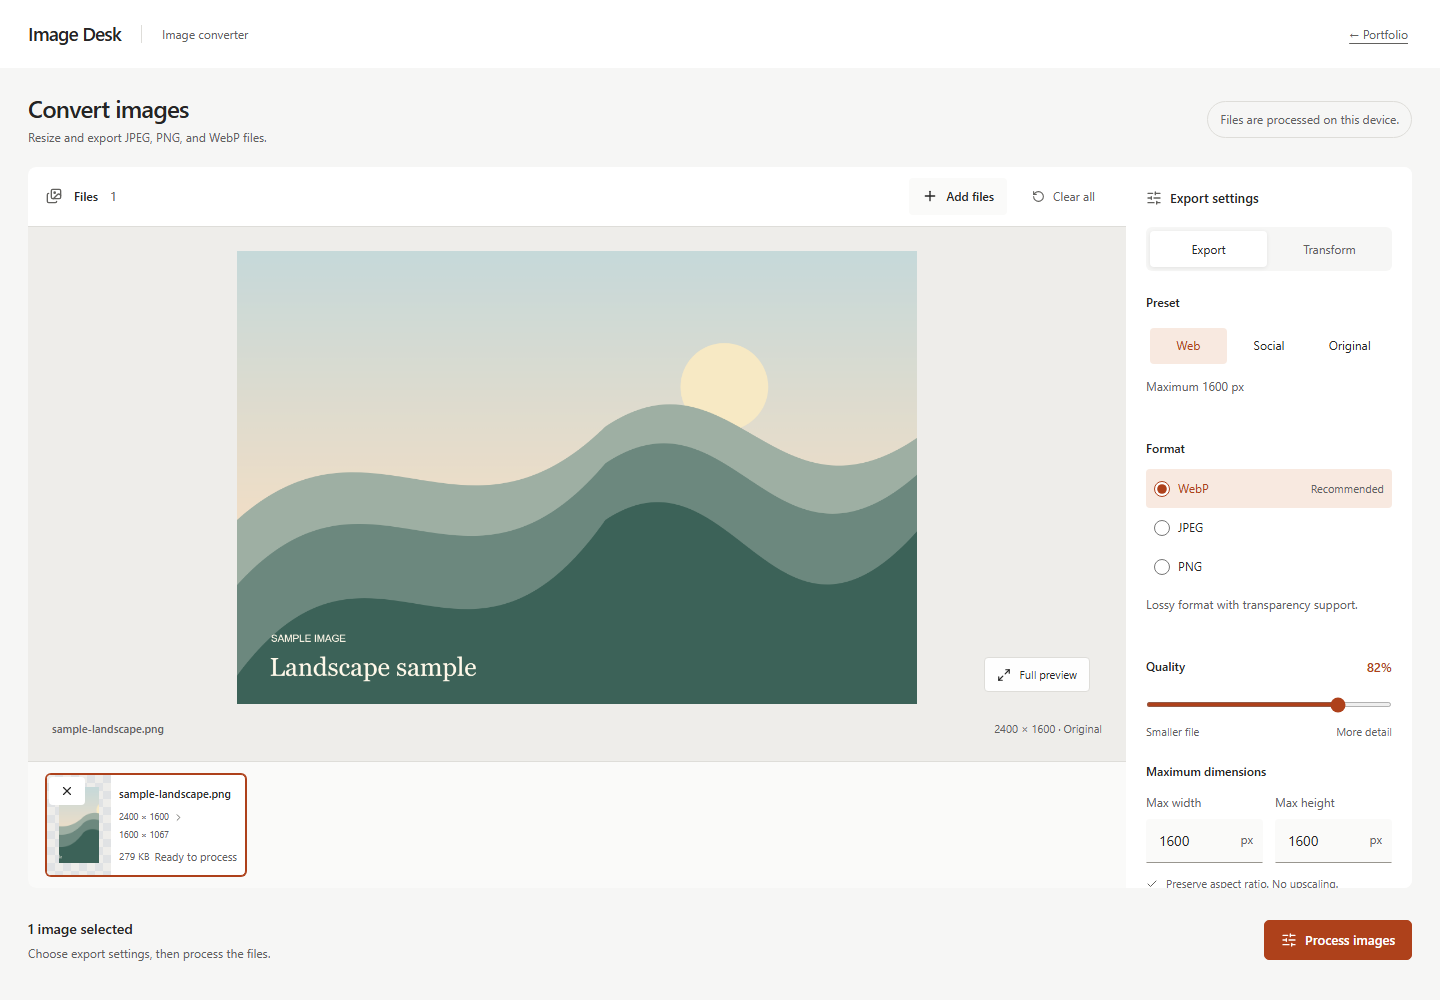
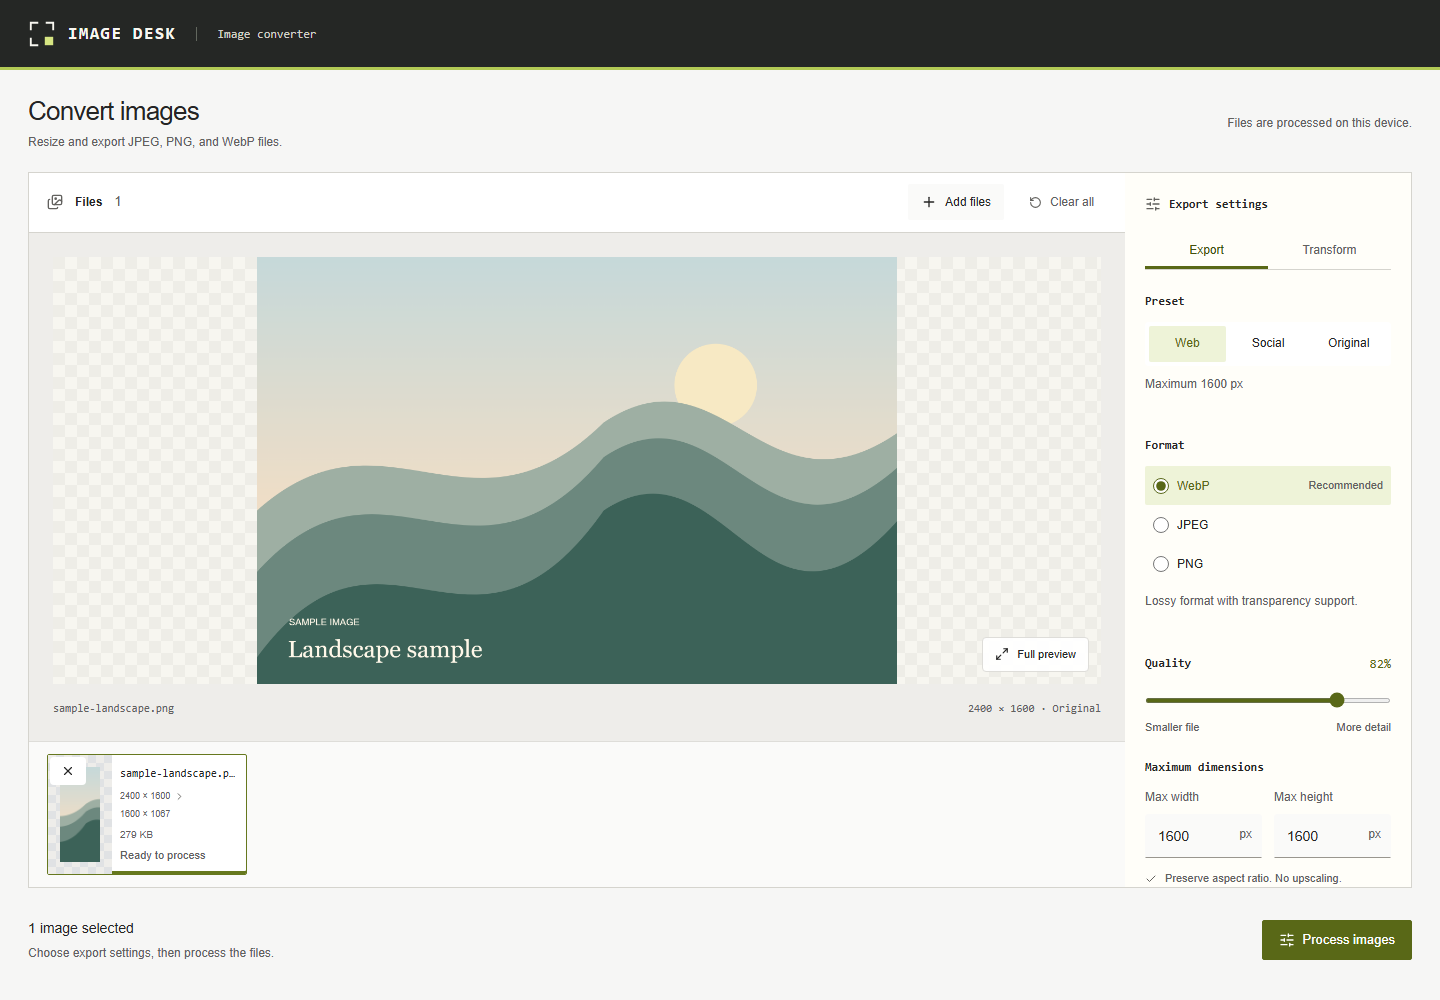
Give image workbench a graphite and chartreuse identity

diff --git a/src/design.css b/src/design.css
@@ -7,10 +7,10 @@
   --color-ink-2: #62615e;
   --color-muted: #696762;
   --color-rule: #deddd9;
-  --color-accent: #ae411b;
-  --color-accent-hover: #873015;
-  --color-focus: #ae411b;
-  --color-selected: #f8e9e0;
+  --color-accent: #596817;
+  --color-accent-hover: #43500f;
+  --color-focus: #596817;
+  --color-selected: #eef3d8;
   --color-input-edge: #99968f;
   --color-preview: #eeedea;
 }
@@ -489,20 +489,123 @@ main {
   }
 }
 
-.portfolio-link {
-  display: inline-flex;
-  align-items: center;
-  min-height: 44px;
-  padding: 8px 4px;
-  margin-left: auto;
-  color: var(--color-ink-2);
-  font-size: 12px;
-  white-space: nowrap;
-  text-decoration: underline;
-  text-underline-offset: 4px;
-}
 @media (max-width: 480px) {
   .header-purpose {
     display: none;
+  }
+}
+
+/* Editing workbench: dark tool rail, square controls and an alpha checkerboard. */
+:root {
+  --font-body: Arial, 'Helvetica Neue', sans-serif;
+}
+.topbar {
+  background: #252725;
+  color: #f8f7f1;
+  border-bottom: 3px solid #b2c955;
+  min-height: 70px;
+}
+.brand {
+  gap: 12px;
+  font:
+    600 17px/1.2 Consolas,
+    ui-monospace,
+    monospace;
+  letter-spacing: 1.5px;
+  text-transform: uppercase;
+  color: #f8f7f1;
+}
+.brand-symbol {
+  width: 28px;
+  height: 28px;
+  flex-shrink: 0;
+}
+.header-purpose {
+  color: #d1d1c8;
+  border-color: #62675e;
+  font:
+    12px Consolas,
+    monospace;
+}
+.intro h1 {
+  font-size: 26px;
+  letter-spacing: -0.8px;
+}
+.privacy-note {
+  border: 0;
+  padding: 0;
+  border-radius: 0;
+}
+.workspace {
+  border-radius: 0;
+  border: 1px solid #d5d4ce;
+}
+.desk-toolbar {
+  border-bottom-color: #d5d4ce;
+}
+.settings {
+  background: #fffef9;
+}
+.panel-heading h2,
+.settings .step-label {
+  font:
+    600 12px/1.5 Consolas,
+    monospace;
+}
+.settings-tabs {
+  padding: 0;
+  gap: 0;
+  background: transparent;
+  border-bottom: 1px solid #d5d4ce;
+  border-radius: 0;
+}
+.settings-tabs button {
+  border-radius: 0;
+  background: transparent;
+}
+.settings-tabs button[aria-pressed='true'] {
+  background: transparent;
+  box-shadow: inset 0 -3px #596817;
+  color: #43500f;
+}
+.stage-image {
+  background-color: #eeede7;
+  background-image:
+    linear-gradient(45deg, #f7f6f0 25%, transparent 25%),
+    linear-gradient(-45deg, #f7f6f0 25%, transparent 25%),
+    linear-gradient(45deg, transparent 75%, #f7f6f0 75%),
+    linear-gradient(-45deg, transparent 75%, #f7f6f0 75%);
+  background-size: 24px 24px;
+  background-position:
+    0 0,
+    0 12px,
+    12px -12px,
+    -12px 0;
+}
+.stage-caption,
+.image-details h3 {
+  font-family: Consolas, ui-monospace, monospace;
+}
+.image-card,
+.button,
+.button.primary,
+.presets button,
+.format-options label {
+  border-radius: 2px;
+}
+.image-card.is-selected {
+  border-color: #66781e;
+  box-shadow: inset 0 -3px #66781e;
+}
+@media (max-width: 760px) {
+  .topbar {
+    min-height: 66px;
+  }
+  .brand {
+    font-size: 16px;
+  }
+  .brand-symbol {
+    width: 24px;
+    height: 24px;
   }
 }

diff --git a/src/App.tsx b/src/App.tsx
@@ -254,17 +254,18 @@ export default function App() {
       </a>
       <header className="topbar">
         <a className="brand" href="./">
+          <svg className="brand-symbol" viewBox="0 0 30 30" aria-hidden="true">
+            <path
+              d="M3 11V3h8m8 0h8v8M3 19v8h8"
+              fill="none"
+              stroke="currentColor"
+              strokeWidth="2"
+            />
+            <path d="M18 18h9v9h-9z" fill="#d6e582" />
+          </svg>
           Image Desk
         </a>
         <span className="header-purpose">Image converter</span>
-        <a
-          className="portfolio-link"
-          href={
-            import.meta.env.VITE_PORTFOLIO_URL || 'https://jpndmatos.github.io/Portfolio/#projects'
-          }
-        >
-          ← Portfolio
-        </a>
       </header>
       <main>
         <div className="intro">

diff --git a/index.html b/index.html
@@ -4,8 +4,8 @@
     <meta charset="UTF-8" />
     <meta name="viewport" content="width=device-width, initial-scale=1" />
     <meta name="description" content="Batch image converter and resizer" />
-    <meta name="theme-color" content="#f6f6f5" />
-    <link rel="icon" type="image/svg+xml" href="/favicon.svg?v=3" />
+    <meta name="theme-color" content="#252725" />
+    <link rel="icon" type="image/svg+xml" href="/favicon.svg?v=4" />
     <title>Image Desk | Batch image converter and resizer</title>
   </head>
   <body>
